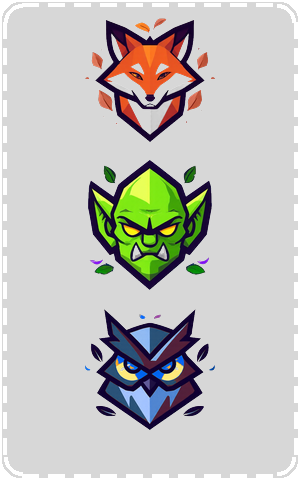
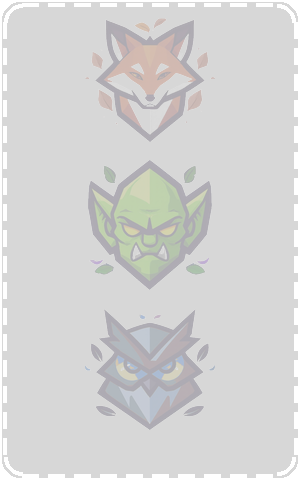
feat: integrate slot sprites into game — replace placeholder backs
- tableau_slot: totem watermark (fox/goblin/owl heads)
- free_slot: dashed border with square icon
- base_slot: dashed gold border with triangle icon
- flower_slot: dashed pink border with flower icon
- main.atlas: added all 7 slot sprite references

Changed region(s): [[0.27, 0.0312, 0.72, 0.625], [0.3, 0.625, 0.72, 0.9062], [0.27, 0.75, 0.3, 0.7812]]

diff --git a/main/Game Objects/flower_slot.go b/main/Game Objects/flower_slot.go
@@ -5,7 +5,7 @@ components {
 embedded_components {
   id: "sprite"
   type: "sprite"
-  data: "default_animation: \"flower_back\"\n"
+  data: "default_animation: \"slot_flower\"\n"
   "material: \"/builtins/materials/sprite.material\"\n"
   "size {\n"
   "  x: 90.0\n"

diff --git a/main/Game Objects/base_slot.go b/main/Game Objects/base_slot.go
@@ -5,7 +5,7 @@ components {
 embedded_components {
   id: "sprite"
   type: "sprite"
-  data: "default_animation: \"back\"\n"
+  data: "default_animation: \"slot_foundation\"\n"
   "material: \"/builtins/materials/sprite.material\"\n"
   "size {\n"
   "  x: 90.0\n"

diff --git a/main/Game Objects/tableau_slot.go b/main/Game Objects/tableau_slot.go
@@ -5,7 +5,7 @@ components {
 embedded_components {
   id: "sprite"
   type: "sprite"
-  data: "default_animation: \"back\"\n"
+  data: "default_animation: \"slot_tableau\"\n"
   "material: \"/builtins/materials/sprite.material\"\n"
   "size {\n"
   "  x: 90.0\n"

diff --git a/main/Game Objects/free_slot.go b/main/Game Objects/free_slot.go
@@ -5,7 +5,7 @@ components {
 embedded_components {
   id: "sprite"
   type: "sprite"
-  data: "default_animation: \"back\"\n"
+  data: "default_animation: \"slot_free\"\n"
   "material: \"/builtins/materials/sprite.material\"\n"
   "size {\n"
   "  x: 90.0\n"
